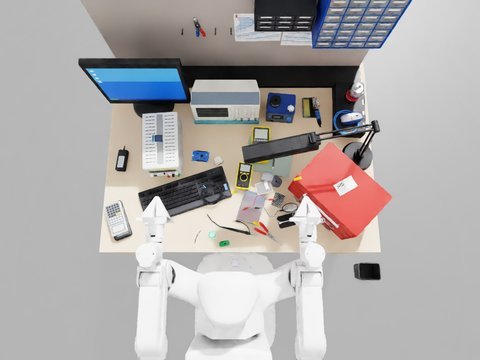
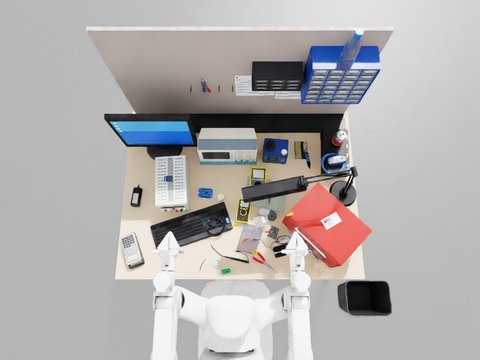
场景 000103：换成落地垃圾桶 trash_bin/000001，空瓶扔进桶里；俯视视角拍到架子上的空瓶

diff --git a/asset_sources/scenes/000103/scene.py b/asset_sources/scenes/000103/scene.py
@@ -11,7 +11,7 @@ the same in every layout: a backboard with parts drawers and four pegs along the
 monitor, the oscilloscope, the soldering station with the iron stand and the instrument box in front
 of it, the bench power supply on the left and the desk lamp on the right reaching over the bench.
 The red tool chest (three drawers) stands at the front right turned to face the robot, the waste bin
-on the floor off the bench's front right corner.
+(not in the photo; big enough for the empty bottle) on the floor off the bench's front right corner.
 
 ``initialize`` is the photo: the keyboard, the logbook under the big multimeter, calculators, boards,
 leads and tools piled up in the middle, litter among them, the cutters on a peg, the iron in its stand;
@@ -39,7 +39,7 @@ ROBOT = {
 BACKGROUND = {'backboard': 'bench_backboard/000000', 'monitor': 'monitor/000000', 'psu': 'bench_power_supply/000000',
               'scope': 'oscilloscope/000000', 'box': 'instrument_box/000000', 'lamp': 'desk_lamp/000000',
               'station': 'soldering_station/000000', 'holder': 'iron_holder/000000'}
-CONTAINERS = {'chest': 'tool_chest/000000', 'bin': 'trash_bin/000000'}
+CONTAINERS = {'chest': 'tool_chest/000000', 'bin': 'trash_bin/000001'}
 TOOLS = {'meter': 'multimeter/000000', 'pocket_meter': 'multimeter/000001', 'pliers': 'pliers/000000',
          'cutters': 'pliers/000001', 'hands': 'helping_hands/000000', 'driver_set': 'screwdriver_set/000000'}
 SOLDERING = {'iron': 'soldering_iron/000000', 'spool': 'solder_spool/000000', 'flux': 'flux_tin/000000',
@@ -55,15 +55,16 @@ LITTER = {'label_1': 'paper_label/000000', 'label_2': 'paper_label/000001', 'lab
           'label_4': 'paper_label/000003', 'wire_end': 'wire_scrap/000000', 'wire_bit': 'wire_scrap/000001',
           'offcut': 'plastic_scrap/000000', 'parts_bag': 'zip_bag/000000', 'receipt': 'receipt/000000',
           'empty_can': 'drink_can/000001'}
-EMPTY_BOTTLE = {'empty_bottle': 'water_bottle/000001'}      # too tall for the bin: it stands beside it
+EMPTY_BOTTLE = {'empty_bottle': 'water_bottle/000001'}
 
 OBJECTS = {name: {'asset': f'objects/{asset}'}
            for group in (BACKGROUND, CONTAINERS, TOOLS, SOLDERING, GEAR, CABLES, DESK, LITTER, EMPTY_BOTTLE)
            for name, asset in group.items()}
 
 VIEWS = {
-    # From above the robot's head: the whole bench and the floor on both sides, where the bin stands.
-    'top': {'position': (0., -.55, 2.45), 'target': (0., -.08, .45), 'focal_length_mm': 15,
+    # From above the robot's head: the whole bench, the shelf over it and the floor on both sides, where the
+    # bin stands.
+    'top': {'position': (0., -.55, 2.7), 'target': (0., .15, .45), 'focal_length_mm': 15,
             'resolution': (1280, 960)},
     # The photo's camera: a person seated at the bench looking over it at the back wall.
     'photo': {'position': (.02, -.83, 1.28), 'target': (.03, .04, .80), 'focal_length_mm': 13.,
@@ -80,6 +81,7 @@ FIXED = [('backboard', (0., .43, 0.)), ('monitor', (-.46, .26, 0.)), ('psu', (-.
 LAMP = (.60, -.03, -80.)        # stood last: its arm reaches over the bench
 CHEST = (.45, -.24, -45.)       # front right, turned to face the robot
 BIN = (.85, -.62, 0.)           # on the floor off the bench's front right corner, in sight from above
+BOTTLE_IN_BIN = 0.                # yaw of the empty bottle lying in the bin: along its long side
 # The photo, by name: (x, y, yaw degrees), dropped in this order so that what rests on something
 # comes after it.
 PHOTO = [
@@ -168,9 +170,11 @@ def bin_at(layout, at=BIN):
     on_floor(layout, 'bin', (x, y), math.radians(yaw))
 
 
-def lying(layout, name):
-    """A random resting orientation of ``name`` on its side (a knocked over can or bottle)."""
-    side = yaw_pose(0., 0., 0., layout.rng.uniform(-math.pi, math.pi))[:3, :3] @ UPRIGHT.T
+def lying(layout, name, yaw=None):
+    """A resting orientation of ``name`` on its side (a knocked over can or bottle), turned by ``yaw``
+    (random when ``None``)."""
+    yaw = layout.rng.uniform(-math.pi, math.pi) if yaw is None else yaw
+    side = yaw_pose(0., 0., 0., yaw)[:3, :3] @ UPRIGHT.T
     return layout.geometry[name].stable_rotation(side)
 
 
@@ -245,16 +249,13 @@ def on_chest(layout, names=('network_cable', 'cable', 'driver_set')):
         layout.drop(name, spots[name], math.pi / 2 if name == 'driver_set' else 0., frame='chest')
 
 
-def binned(layout, at=BIN, bottle=(.13, 0.)):
-    """The bin on the floor with the litter in it, the empty can at the bottom; the empty bottle standing
-    beside it (``bottle``: offset from the bin)."""
+def binned(layout, at=BIN):
+    """The bin on the floor with the empty bottle lying at the bottom and the rest of the litter on it."""
     bin_at(layout, at)
-    layout.drop('empty_can', (0., 0.), 0., frame='bin')
+    layout.drop('empty_bottle', (0., 0.), rotation=lying(layout, 'empty_bottle', BOTTLE_IN_BIN), frame='bin')
     for name in LITTER:
-        if name != 'empty_can':
-            layout.scatter(name, ((-.035, -.025), (.035, .025)), yaw=(-math.pi, math.pi), frame='bin',
-                           onto=['bin', *LITTER])
-    on_floor(layout, 'empty_bottle', (at[0] + bottle[0], at[1] + bottle[1]))
+        layout.scatter(name, ((-.07, -.05), (.07, .05)), yaw=(-math.pi, math.pi), frame='bin',
+                       onto=['bin', 'empty_bottle', *LITTER])
 
 
 def computer(layout, keyboard=(-.10, -.41), mouse=(.20, -.42)):
@@ -334,7 +335,7 @@ def mirrored(layout):
     chest_at(layout, (-.49, -.35, 0.))
     stored_gear(layout)
     on_chest(layout)
-    binned(layout, at=(-.85, -.62, 0.), bottle=(-.13, 0.))
+    binned(layout, at=(-.85, -.62, 0.))
     tidy_desk(layout, mirror=True)
 
 
@@ -398,7 +399,7 @@ def pile(layout):
     fixtures(layout)
     chest_at(layout)
     bin_at(layout)
-    on_floor(layout, 'empty_bottle', (BIN[0] + .13, BIN[1]))
+    on_floor(layout, 'empty_bottle', (BIN[0] + .22, BIN[1]))
     for name in sorted(remaining(layout), key=lambda name: footprint_area(layout, name), reverse=True):
         layout.scatter(name, ((-.32, -.40), (.12, -.14)), yaw=(-math.pi, math.pi), tries=200)
 
@@ -410,7 +411,7 @@ def wrong_places(layout):
     bin_at(layout)
     # The pliers, a clip lead, the pen and the connector thrown in the bin; litter, the iron and the mouse
     # on top of the chest; the reel and flux on the power supply; the rest strewn over the bench.
-    into(layout, ['pliers', 'lead_red', 'pen', 'connector'], 'bin', (.03, .02))
+    into(layout, ['pliers', 'lead_red', 'pen', 'connector'], 'bin', (.07, .05))
     for name in ('iron', 'label_1', 'label_2', 'offcut', 'parts_bag', 'mouse'):
         layout.scatter(name, ((-.10, -.06), (.10, .06)), yaw=(-math.pi, math.pi), frame='chest',
                        onto=['chest', *LITTER, 'iron'])
@@ -428,7 +429,7 @@ def half_done(layout):
     hang(layout, 'cutters', 1)
     chest_at(layout)
     bin_at(layout)
-    into(layout, ['label_1', 'label_2', 'receipt'], 'bin', (.035, .025))
+    into(layout, ['label_1', 'label_2', 'receipt'], 'bin', (.07, .05))
     # The left half done: the logbook and calculators, the keyboard, the meters in a row; the right half and
     # the chest still strewn with everything else.
     desk_stack(layout)
@@ -436,7 +437,7 @@ def half_done(layout):
     layout.place('keyboard', ((-.14, -.41), (-.14, -.41)))
     strewn(layout, [name for name in remaining(layout) if name != 'empty_bottle'], region=((-.25, -.47), (.22, -.10)),
            onto=None)      # crowded: things land on each other
-    on_floor(layout, 'empty_bottle', (BIN[0] + .13, BIN[1]))
+    on_floor(layout, 'empty_bottle', (BIN[0] + .22, BIN[1]))
 
 
 def left_open(layout):
@@ -485,7 +486,7 @@ LAYOUTS = {
                        'the solder reel and flux tin on the station; probe, heat sink, pen and wick in the top '
                        'drawer, the boards, display, adapter and connector in the middle one, the clip leads and '
                        'the mouse in the bottom one (all closed); the two coiled cables and the screwdriver set on '
-                       'the chest; all litter in the bin with the empty bottle beside it; the keyboard and wireless '
+                       'the chest; all litter and the empty bottle in the bin; the keyboard and wireless '
                        'mouse squared up at the front, the calculators on the logbook at the front left, the two '
                        'meters side by side behind them and the third hand in the middle.'},
     2: {

diff --git a/table_1000/modeling/workbench_clutter_assets.py b/table_1000/modeling/workbench_clutter_assets.py
@@ -201,7 +201,9 @@ PROFILES = {
     "receipt": {"default": {"size": (0.090, 0.055), "thickness": 0.001, "fold_x": 0.022,
                             "lift_deg": 9}},
     "trash_bin": {"default": {"bottom": (0.126, 0.096, 0.012), "top": (0.140, 0.110, 0.015),
-                              "height": 0.120, "wall": 0.0035, "floor": 0.005, "rim": 0.002}},
+                              "height": 0.120, "wall": 0.0035, "floor": 0.005, "rim": 0.002},
+                  "floor": {"bottom": (0.240, 0.180, 0.030), "top": (0.290, 0.220, 0.035),
+                            "height": 0.300, "wall": 0.004, "floor": 0.006, "rim": 0.003}},
     "drink_can": {"opened": {}},
     "water_bottle": {"empty": {
         "rings": [(0.0, 0.0255), (0.003, 0.0305), (0.008, 0.0322), (0.030, 0.0322),

diff --git a/asset_sources/objects/trash_bin/000001/object.py b/asset_sources/objects/trash_bin/000001/object.py
@@ -1,0 +1,15 @@
+"""Build trash_bin/000001 (floor); dimensions live in workbench_clutter_assets.PROFILES."""
+from table_1000.modeling.workbench_clutter_assets import build_clutter_asset
+from table_1000.modeling.asset_builders import generate
+
+
+def build():
+    build_clutter_asset("trash_bin", "floor")
+
+
+def main(argv=None):
+    generate(build, __file__, argv)
+
+
+if __name__ == "__main__":
+    main()

diff --git a/asset_sources/objects/trash_bin/000001/README.md b/asset_sources/objects/trash_bin/000001/README.md
@@ -1,0 +1,13 @@
+# 深灰色落地垃圾桶
+
+![preview](three_quarter.jpg)
+
+深灰色塑料矩形办公垃圾桶，开口，放在地上，能装下 500 ml 水瓶。上口 296 × 226 mm，高 300 mm。1 个刚体，无关节。
+
+```text
+trash_bin
+  body [rigid]
+    floor
+    rim
+    walls
+```
